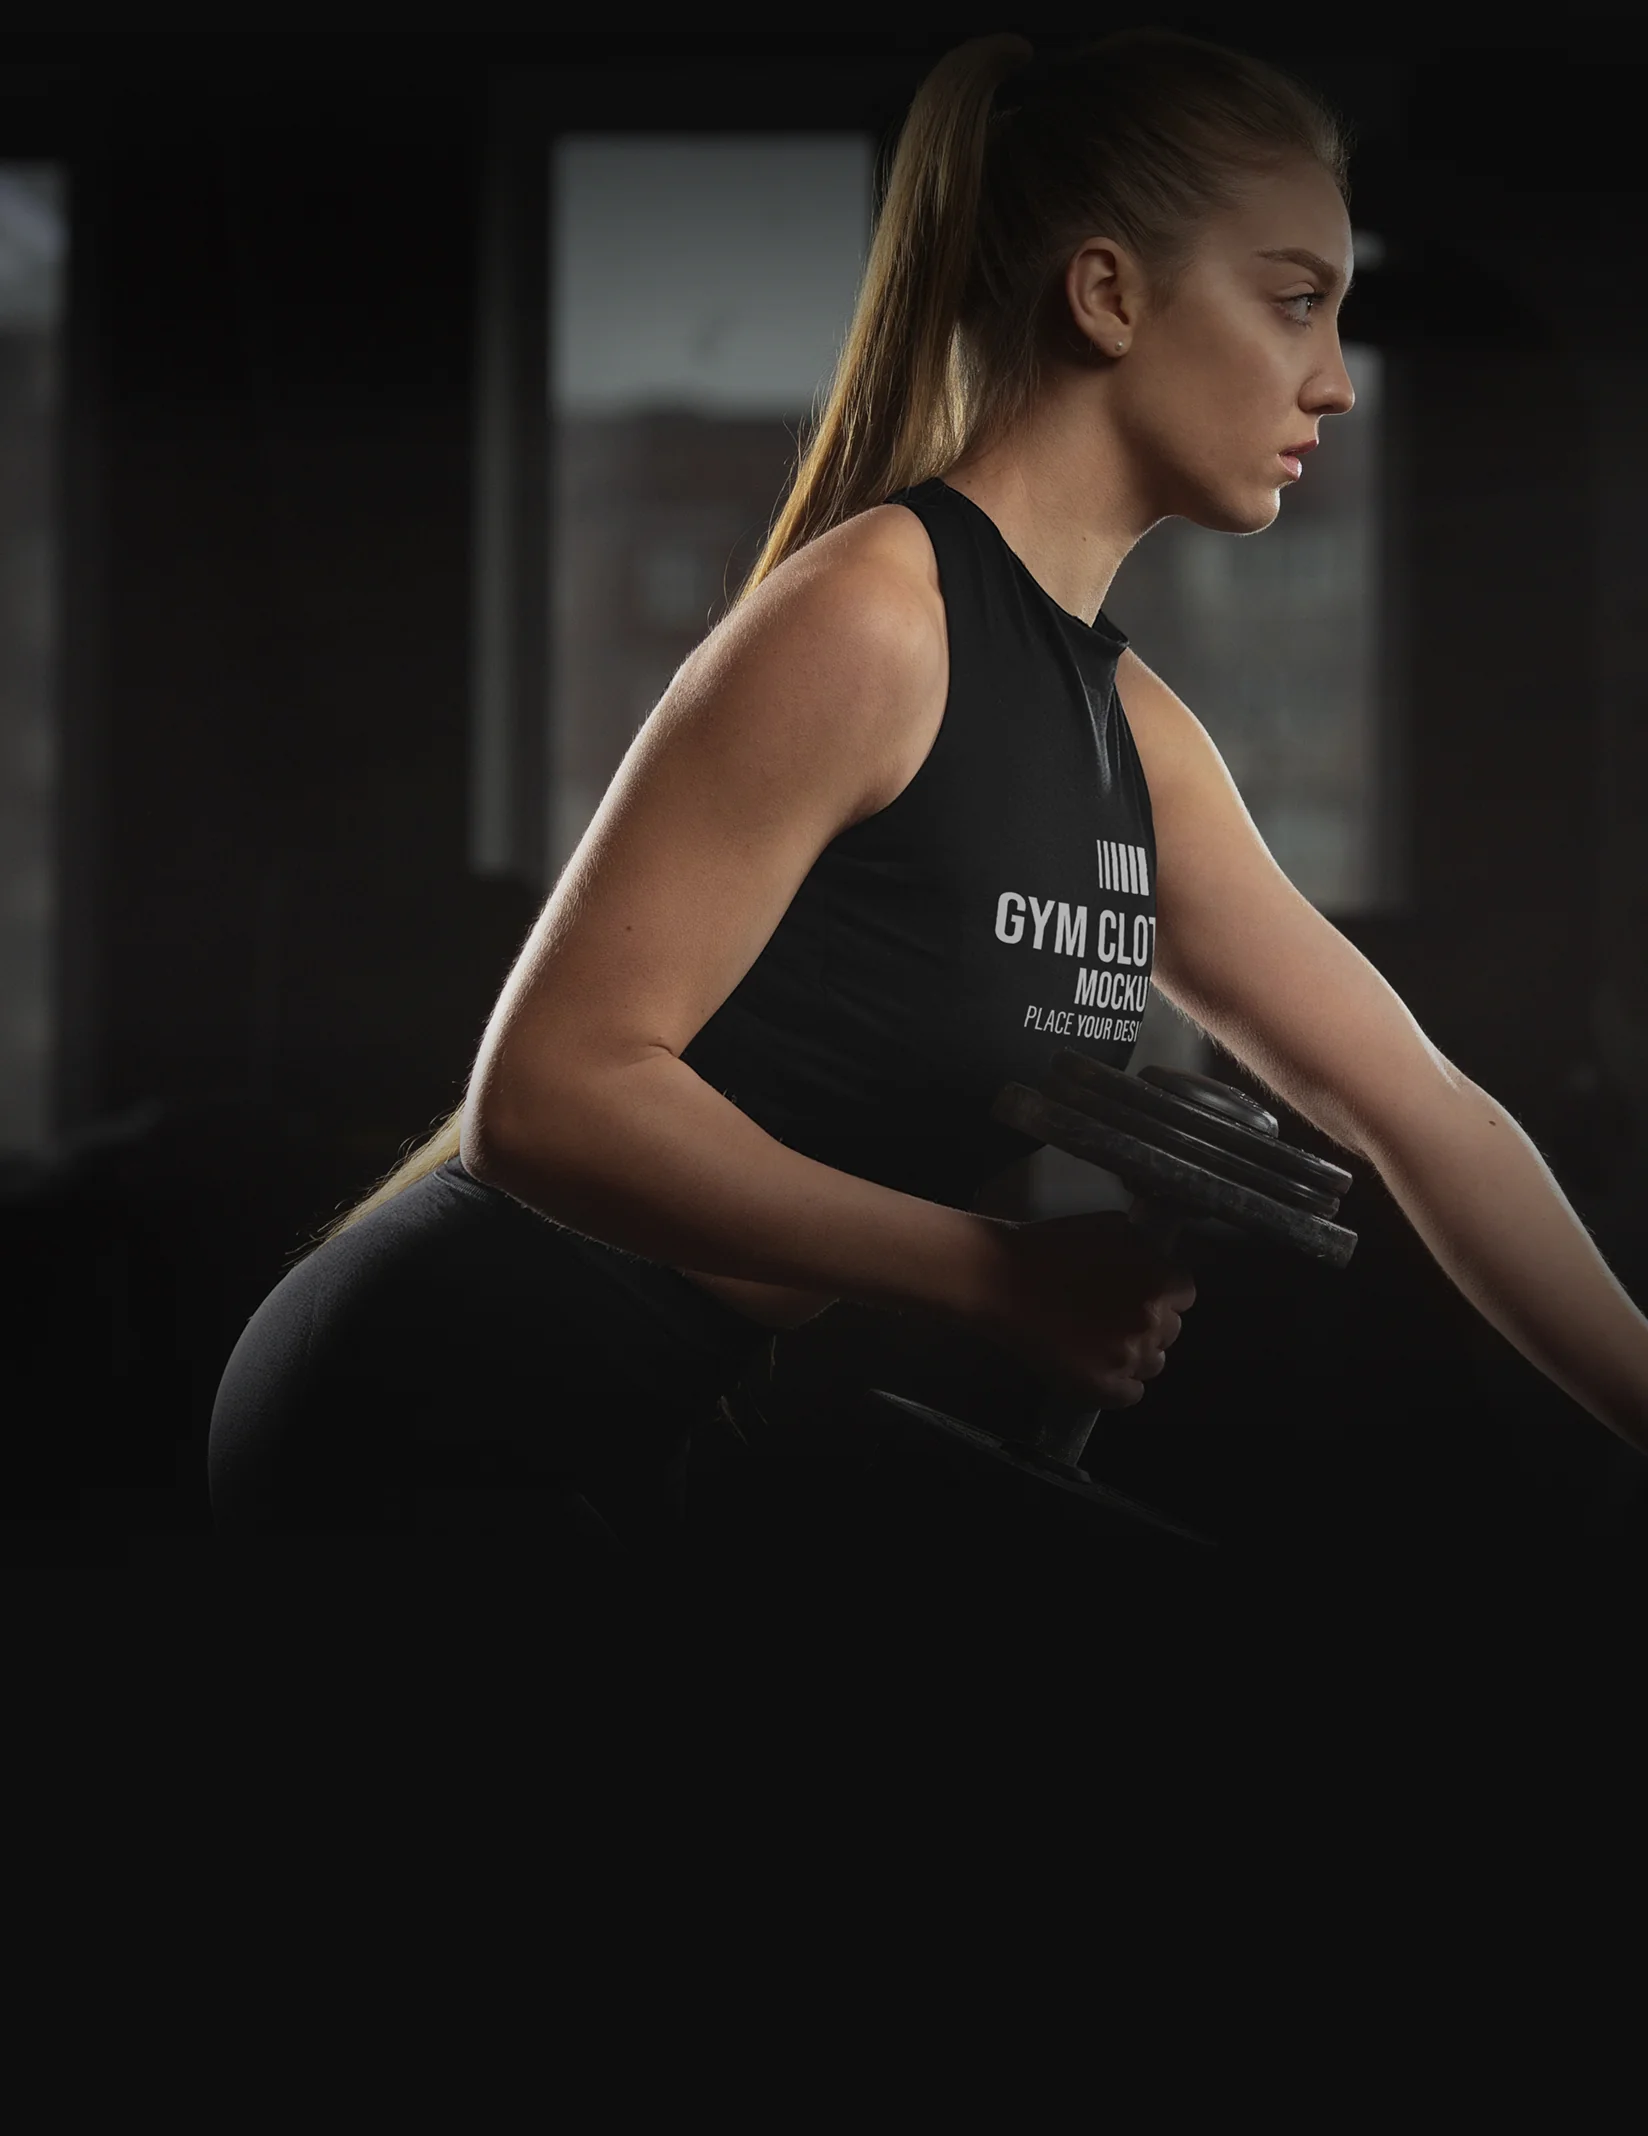
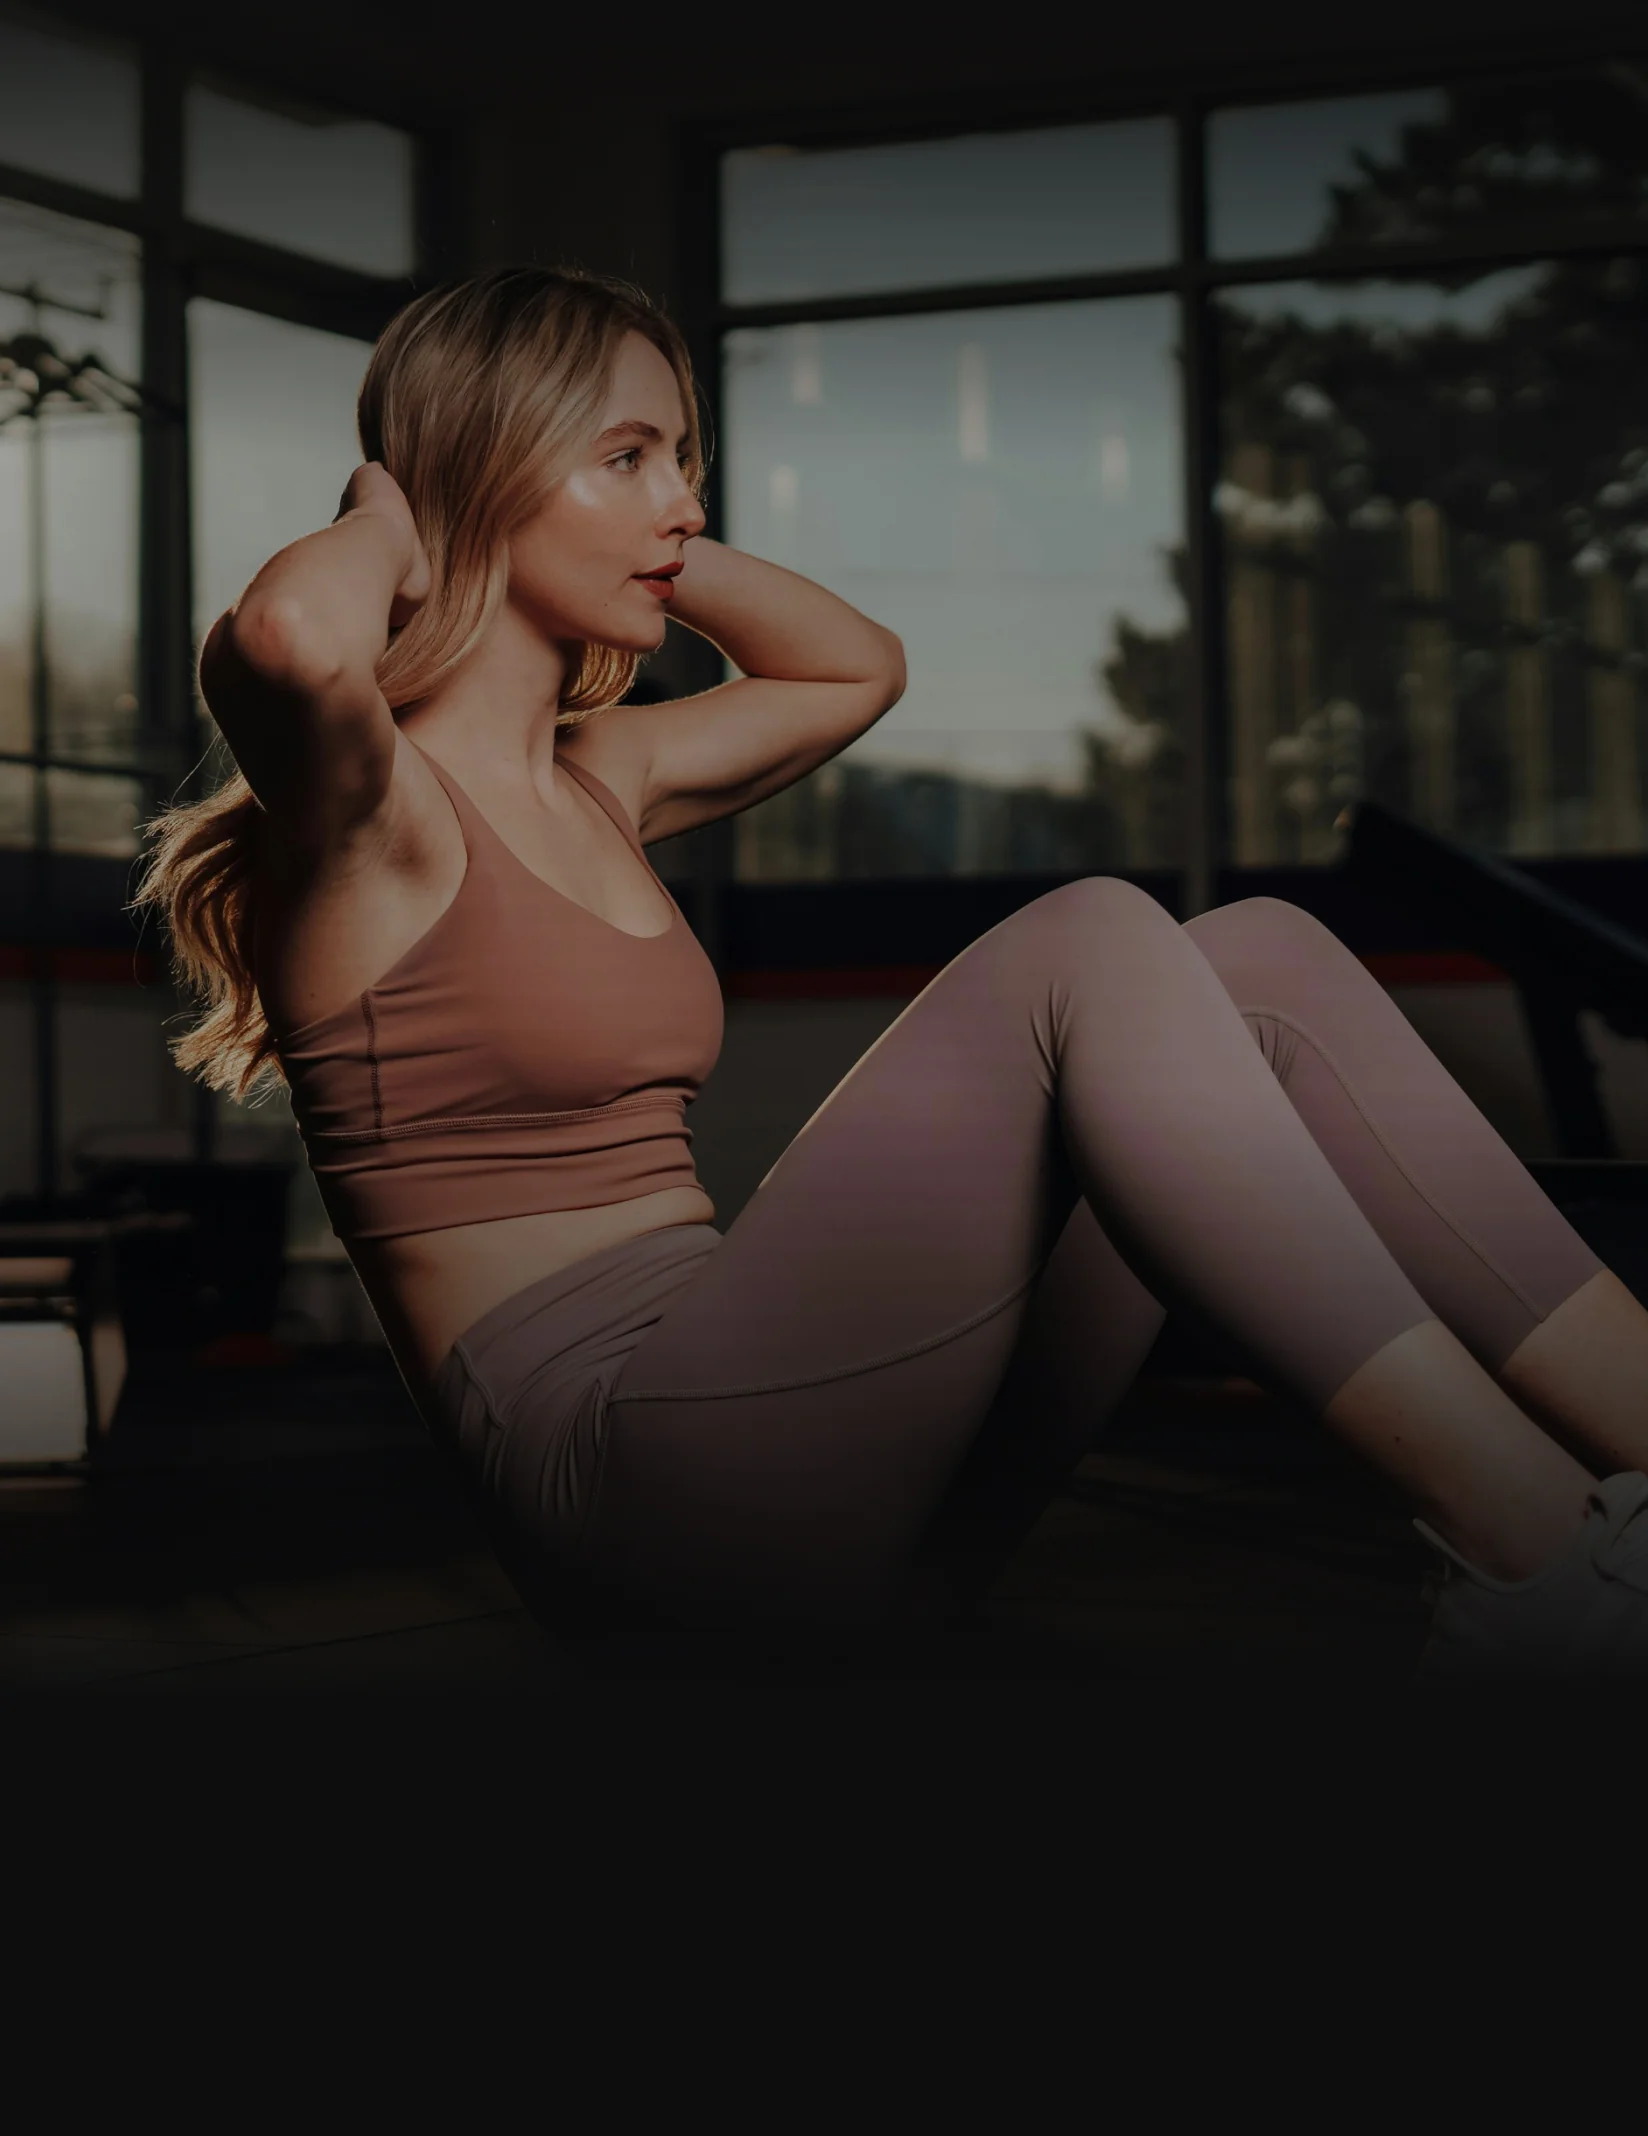
evolution min height set

diff --git a/src/components/StaticPages/EvolutionSection.tsx b/src/components/StaticPages/EvolutionSection.tsx
@@ -1,5 +1,5 @@
 "use client";
-import { useState } from "react";
+import { useState, useRef, useEffect } from "react";
 import TitleDescription from "@/components/common/TitleDescription";
 import { EvolutionSectionProps, EvolutionItem } from "@/types/staticPages";
 import Slider from "react-slick";
@@ -17,6 +17,33 @@ const EvolutionSection = ({
   const [activeBackground, setActiveBackground] = useState<EvolutionItem>(
     evolutionList[0]
   );
+  const [maxCardHeight, setMaxCardHeight] = useState<number>(144);
+  const cardRefs = useRef<(HTMLDivElement | null)[]>([]);
+
+  useEffect(() => {
+    cardRefs.current = new Array(evolutionList.length).fill(null);
+  }, [evolutionList.length]);
+
+  useEffect(() => {
+    if (!isMobile) return;
+
+    const measureHeights = () => {
+      const validRefs = cardRefs.current.filter((ref) => ref !== null);
+      if (validRefs.length === 0) return;
+
+      setTimeout(() => {
+        const heights = validRefs.map((ref) => ref?.offsetHeight || 0);
+        const maxHeight = Math.max(...heights, 144);
+        setMaxCardHeight(maxHeight);
+      }, 150);
+    };
+
+    const timeoutId = setTimeout(measureHeights, 200);
+
+    return () => {
+      clearTimeout(timeoutId);
+    };
+  }, [isMobile, evolutionList]);
 
   const sliderSettings = {
     dots: true,
@@ -94,7 +121,16 @@ const EvolutionSection = ({
         <Slider {...sliderSettings}>
           {evolutionList.map((evo, idx) => (
             <div key={idx} className="!w-full  pl-4">
-              <div className="bg-white text-[#1C1C1C] flex flex-col justify-start gap-3 p-6 w-full min-h-[144px]">
+              <div
+                ref={(el) => {
+                  cardRefs.current[idx] = el;
+                }}
+                className="bg-white text-[#1C1C1C] flex flex-col justify-start gap-3 p-6 w-full"
+                style={{
+                  height: isMobile ? `${maxCardHeight + 24}px` : "auto",
+                  minHeight: "144px",
+                }}
+              >
                 <h3 className="text-xl font-semibold leading-6 tracking-[-1%]">
                   {evo.title}
                 </h3>
